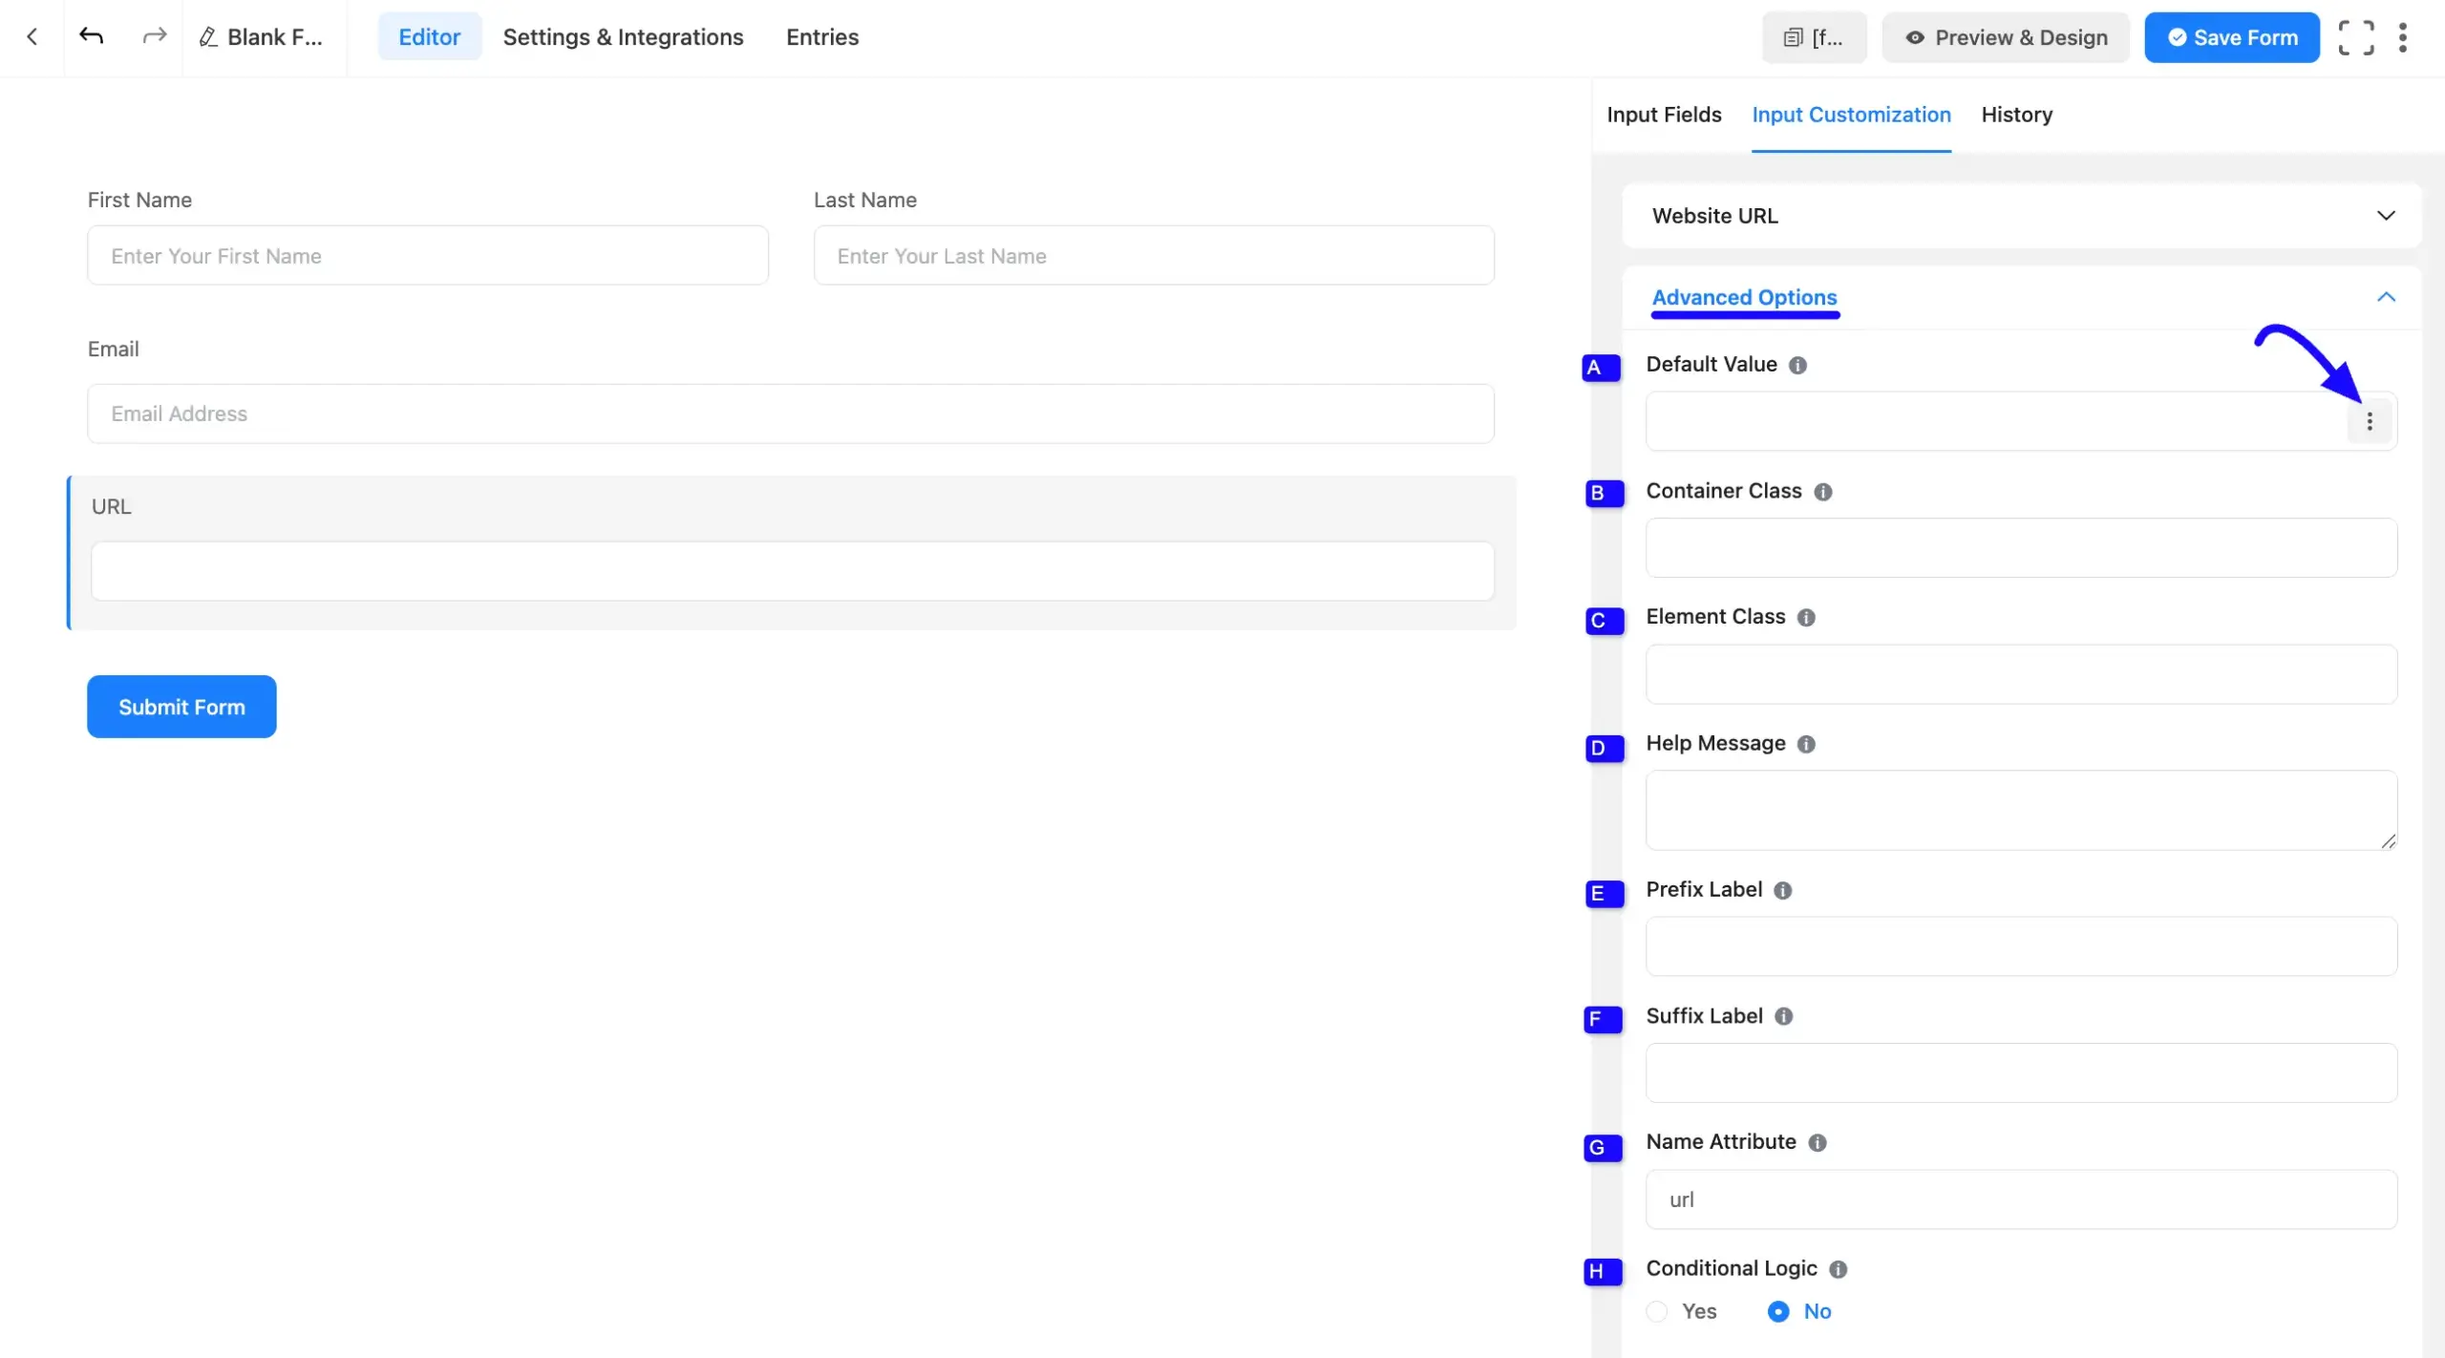
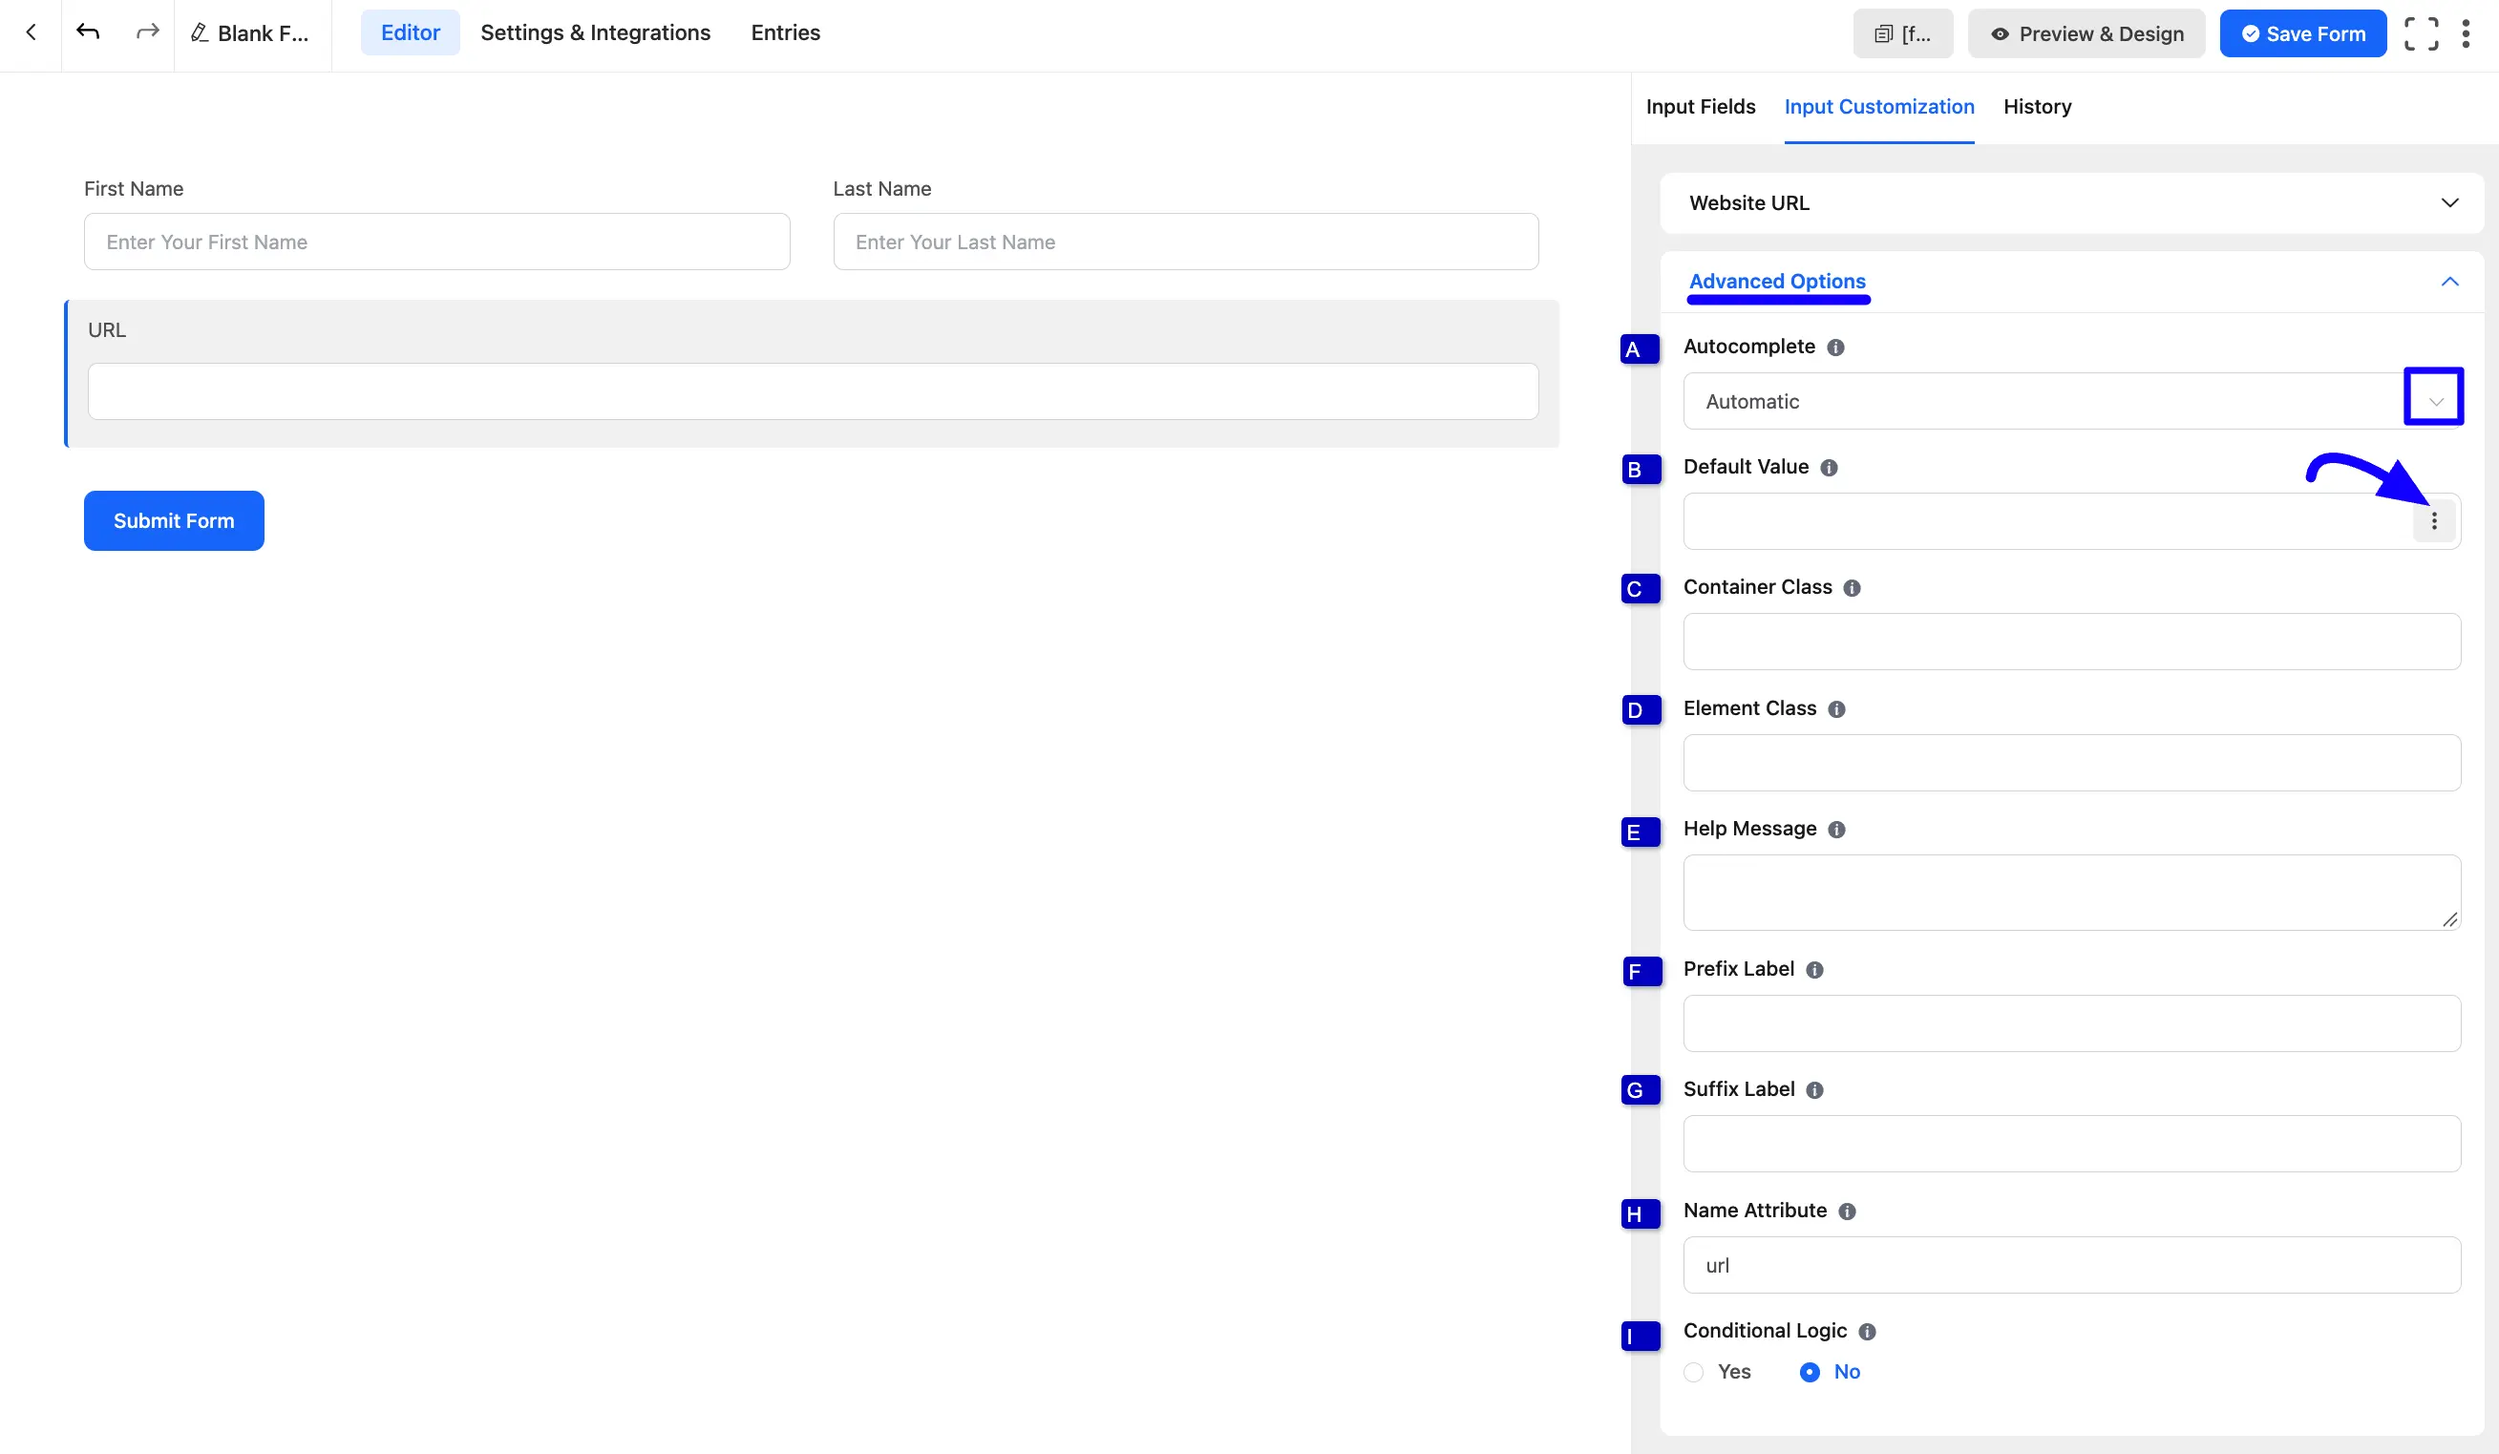
description and image update of website url doc

diff --git a/docs/form-fields/general-fields/website-url-input-field-guide.md b/docs/form-fields/general-fields/website-url-input-field-guide.md
@@ -56,21 +56,23 @@ You will find various settings options for customizing the field. Located in the
 
 Advanced settings allow further customization to meet specific use cases.
 
-**A. Default Value:** Using our shortcodes, you can manually set any fixed value in your field and pre-fill your input field dynamically. Read [Dynamic Default Value in Fluent Forms](/dynamic-default-value) to better understand Dynamic Default values.
+**A. Autocomplete:** Choose a value that tells the browser what the field collects, so it can offer saved details. Options are **Automatic**, **off**, **None**, or a specific value. To learn more, read [Autocomplete for Form Fields](/autocomplete-for-form-fields).
 
-**B. Container Class:** Use this option to add your custom CSS classes to the field’s wrapper.
+**B. Default Value:** Using our shortcodes, you can manually set any fixed value in your field and pre-fill your input field dynamically. Read [Dynamic Default Value in Fluent Forms](/dynamic-default-value) to better understand Dynamic Default values.
 
-**C. Element Class:** Add custom CSS classes to the input field.
+**C. Container Class:** Use this option to add your custom CSS classes to the field’s wrapper.
 
-**D. Help Message:** This option allows you to guide your user thoroughly. Add your text here, which will be shown as a help message to the user.
+**D. Element Class:** Add custom CSS classes to the input field.
 
-**E. Prefix Label:** Add a text or symbol prefix that appears at the beginning of the input area to provide additional context to the user.
+**E. Help Message:** This option allows you to guide your user thoroughly. Add your text here, which will be shown as a help message to the user.
 
-**F. Suffix Label:** Add a text or symbol suffix that appears at the end of the input area.
+**F. Prefix Label:** Add a text or symbol prefix that appears at the beginning of the input area to provide additional context to the user.
 
-**G. Name Attribute:** The input field’s name attribute is the HTML equivalent of the same name. You don’t need to modify this.
+**G. Suffix Label:** Add a text or symbol suffix that appears at the end of the input area.
 
-**H. Conditional Logic:** This option allows you to create specific rules to dynamically hide/show the input field to function conditionally based on your submission values according to your set of conditional logics. To learn more, read [Set up Forms with Conditional Logic in Fluent Forms](/set-up-forms-with-conditional-logic). 
+**H. Name Attribute:** The input field’s name attribute is the HTML equivalent of the same name. You don’t need to modify this.
+
+**I. Conditional Logic:** This option allows you to create specific rules to dynamically hide/show the input field to function conditionally based on your submission values according to your set of conditional logics. To learn more, read [Set up Forms with Conditional Logic in Fluent Forms](/set-up-forms-with-conditional-logic). 
 
 ![URL Advanced Option](/images/form-fields/general-fields/website-url-input-field-guide/url-advanced-option-scaled.webp)
 
